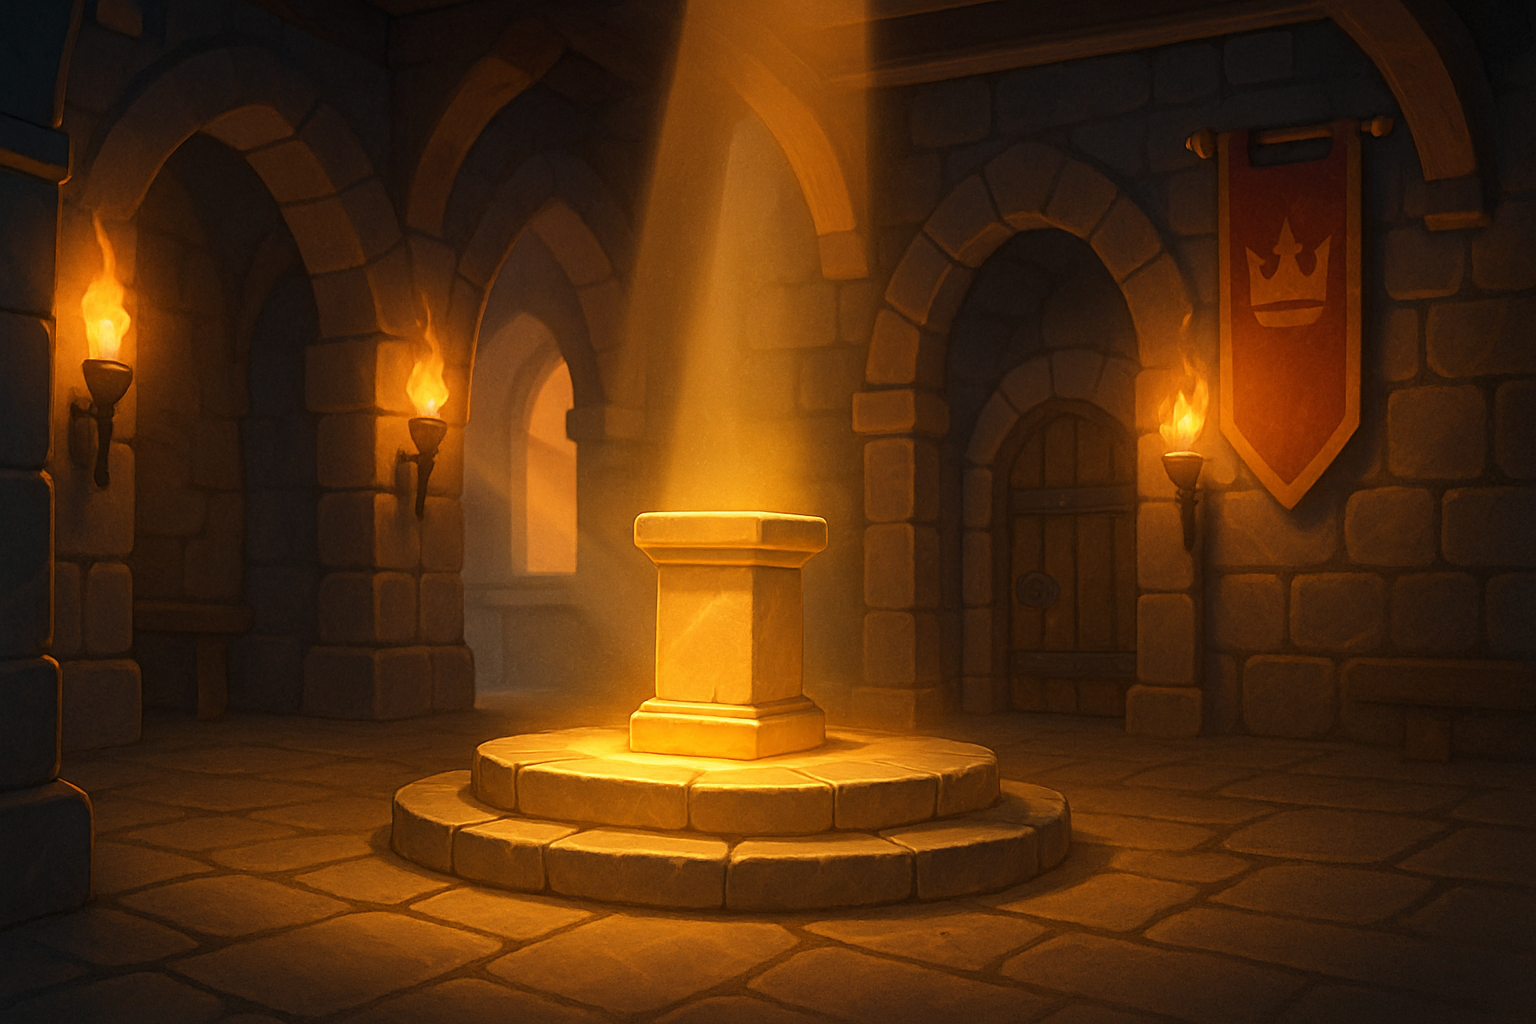
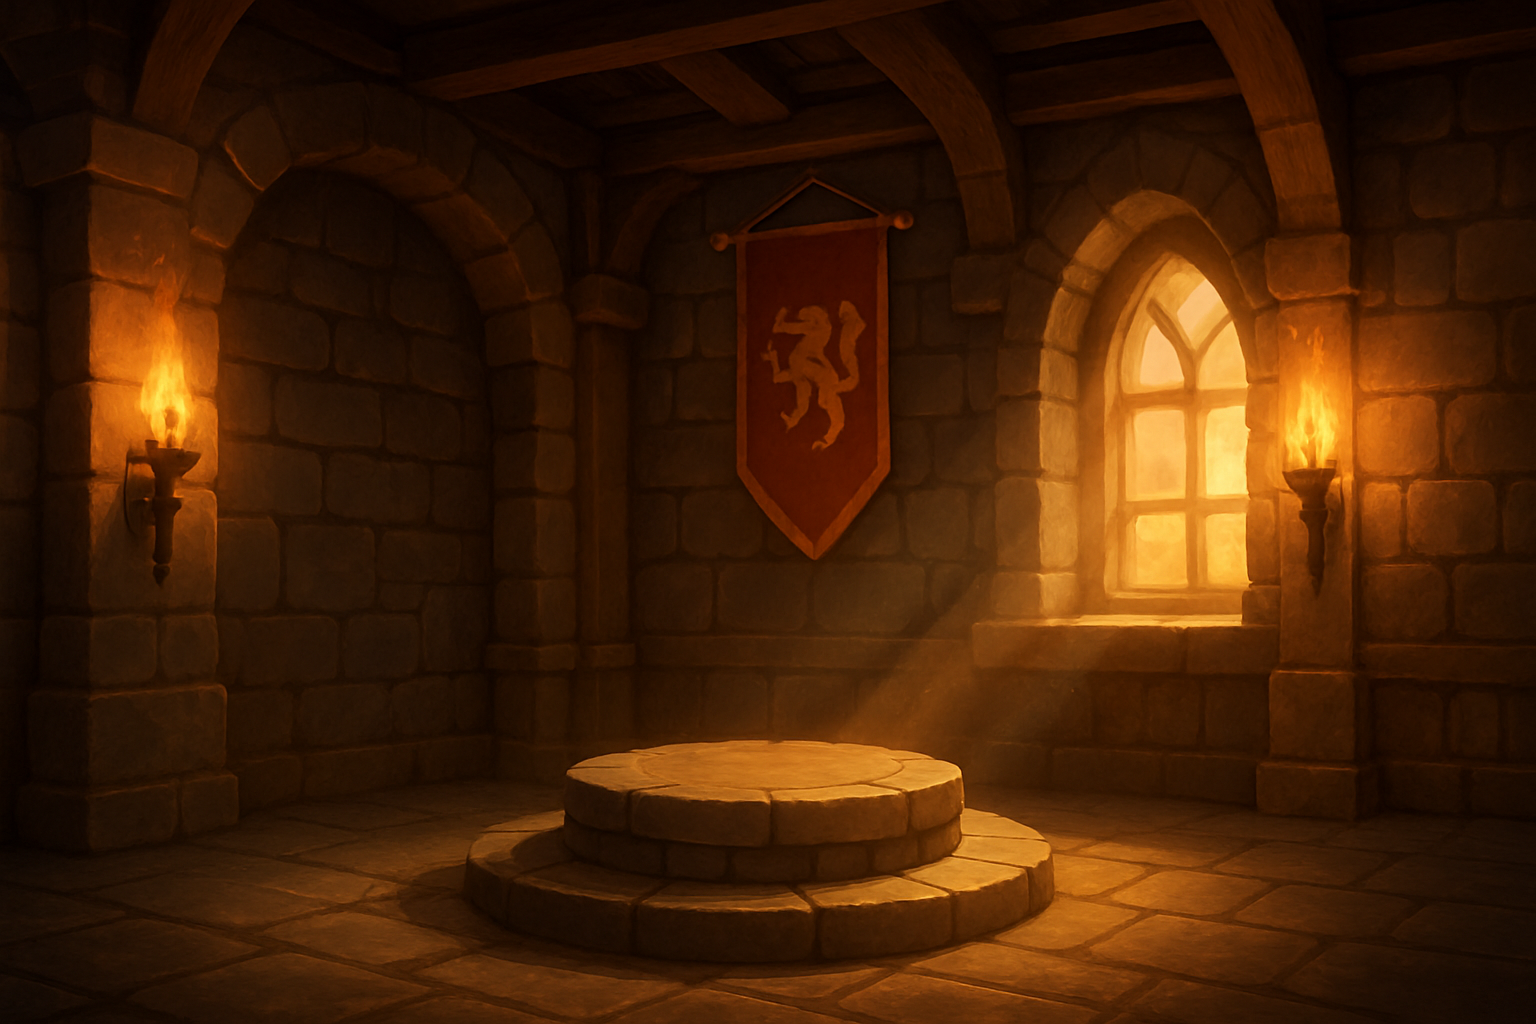
Base polish: cape/fists raster tiles, friends to the bottom, low medieval pedestal
Parent feedback:
- Friends row moved down to the bottom of the screen, just below the lowest pedestal step
  (.bfriends bottom 110px -> 18px).
- Cape buttons are now painted-raster tiles (art/cape-red|gold|purple.png) in the loadout,
  matching the weapon tiles; locked capes greyed with the star requirement.
- HANDS button now uses a painted FISTS tile (art/fists.png) for consistency with the weapons.
- Regenerated the Act-2 medieval backdrop with a LOW modest pedestal (was too tall), and added an
  Act-2 hero-height override (bottom:21%) so the knight stands at the pedestal top.

Render-gate: basearmed (Act-1 fists+cape tiles, friends bottom) + base2 (low pedestal, knight seated)
PASS. ui-emoji 11 / curriculum 110 / save 112.

diff --git a/styles.css b/styles.css
@@ -1190,7 +1190,7 @@ body.calm .scrollword{transition:none;} body.calm .scrollword.lit{transform:none
 .gearbtns{ display:flex; gap:8px; margin-top:11px; }
 .btn.sm{ font-size:15px; padding:7px 12px; }
 /* friends row below the hero — PAINTED RASTER portraits in round gold frames */
-#scrBase .bfriends{ position:absolute; left:50%; bottom:110px; transform:translateX(-50%); z-index:5;
+#scrBase .bfriends{ position:absolute; left:50%; bottom:18px; transform:translateX(-50%); z-index:5;
   display:flex; flex-direction:column; align-items:center; gap:3px; max-width:54vw; }
 #scrBase .friendrow{ display:flex; gap:10px; align-items:flex-end; flex-wrap:wrap; justify-content:center; }
 #scrBase .friendrow .frbtn{ width:62px; height:62px; border-radius:50%; overflow:hidden; border:3px solid var(--gold);
@@ -1201,6 +1201,8 @@ body.calm .scrollword{transition:none;} body.calm .scrollword.lit{transform:none
 /* Act-2 medieval skin parity */
 body[data-act="2"] #scrBase .bpanel{ border-color:#6a5436; background:rgba(40,30,16,.5); }
 body[data-act="2"] .bchip{ border-color:#caa15a; }
+/* Act-2 keep has a LOWER pedestal than the Act-1 lair → seat the knight lower so he stands on it */
+body[data-act="2"] #scrBase .basehero{ bottom:21%; }
 
 /* painted LETTER GEMS (gemSVG): crystal raster tinted to the grapheme colour (multiply, masked to the
    gem shape) + the Andika letter overlaid crisply on top. */
@@ -1217,6 +1219,7 @@ body[data-act="2"] .bchip{ border-color:#caa15a; }
 #scrBase .wtile .wname.only{ width:54px; height:54px; display:flex; align-items:center; justify-content:center; background:linear-gradient(180deg,#3a2f5e,#241a44); border:2px solid #4a3a86; border-radius:12px; font-size:11px; color:#cfc6f2; }
 #scrBase .wtile.onsel img,#scrBase .wtile.onsel .wname.only{ outline:3px solid #fff; box-shadow:0 0 10px #ffd75e; }
 #scrBase .wtile.onsel .wname{ color:#ffd75e; }
+#scrBase .wtile.lockd{ cursor:default; } #scrBase .wtile.lockd img{ filter:grayscale(.6) brightness(.78); } #scrBase .wtile.lockd .wname{ color:#8a82ad; }
 
 /* SQUISHY SHOP — collectible tiles + detail card (parent 2026-06-16) */
 #shopGrid{ display:flex; flex-wrap:wrap; gap:13px; justify-content:center; max-width:780px; max-height:62vh; overflow-y:auto; padding:6px; }

diff --git a/game.js b/game.js
@@ -1522,9 +1522,7 @@ function paintBase(){
   const weapons=[["none","HANDS"],...ownedWeapons().map(w=>[w.k,w.lbl])];
   weapons.forEach(([k,lbl])=>{ const b=document.createElement("button");
     b.className="wtile"+(S.equip.weapon===k?" onsel":""); b.title=lbl;
-    b.innerHTML=(k!=="none" ? '<img src="art/wpn-'+k+'.png" alt="'+lbl+'" draggable="false">'
-                            : '<span class="wname only">HANDS</span>')
-              + (k!=="none" ? '<span class="wname">'+lbl+'</span>' : '');
+    b.innerHTML='<img src="art/'+(k!=="none"?"wpn-"+k:"fists")+'.png" alt="'+lbl+'" draggable="false"><span class="wname">'+lbl+'</span>';
     b.onclick=()=>{S.equip.weapon=k;save();Aud.ding();paintBase();};
     wrow.appendChild(b); });
   if(weapons.length===1){ const hint=document.createElement("div"); hint.className="baselbl";
@@ -1534,9 +1532,9 @@ function paintBase(){
   const capes=[["red","RED",0],["gold","GOLD",15],["purple","PURPLE",27]];
   capes.forEach(([k,lbl,need])=>{ const locked=S.stars<need;
     const b=document.createElement("button");
-    b.className="echip"+(S.equip.cape===k?" onsel":"")+(locked?" lockd":"");
-    b.textContent=locked?(lbl+" · "+need):lbl;
-    b.onclick=()=>{S.equip.cape=k;save();Aud.ding();paintBase();};
+    b.className="wtile"+(S.equip.cape===k?" onsel":"")+(locked?" lockd":""); b.title=lbl;
+    b.innerHTML='<img src="art/cape-'+k+'.png" alt="'+lbl+'" draggable="false"><span class="wname">'+(locked?(lbl+" · "+need):lbl)+'</span>';
+    b.onclick=()=>{ if(locked){Aud.play&&Aud.play("shop_need");return;} S.equip.cape=k;save();Aud.ding();paintBase(); };
     crow.appendChild(b); });
   /* gem shelf: earned letters only */
   const shelf=$("gemShelf"); shelf.innerHTML="";
